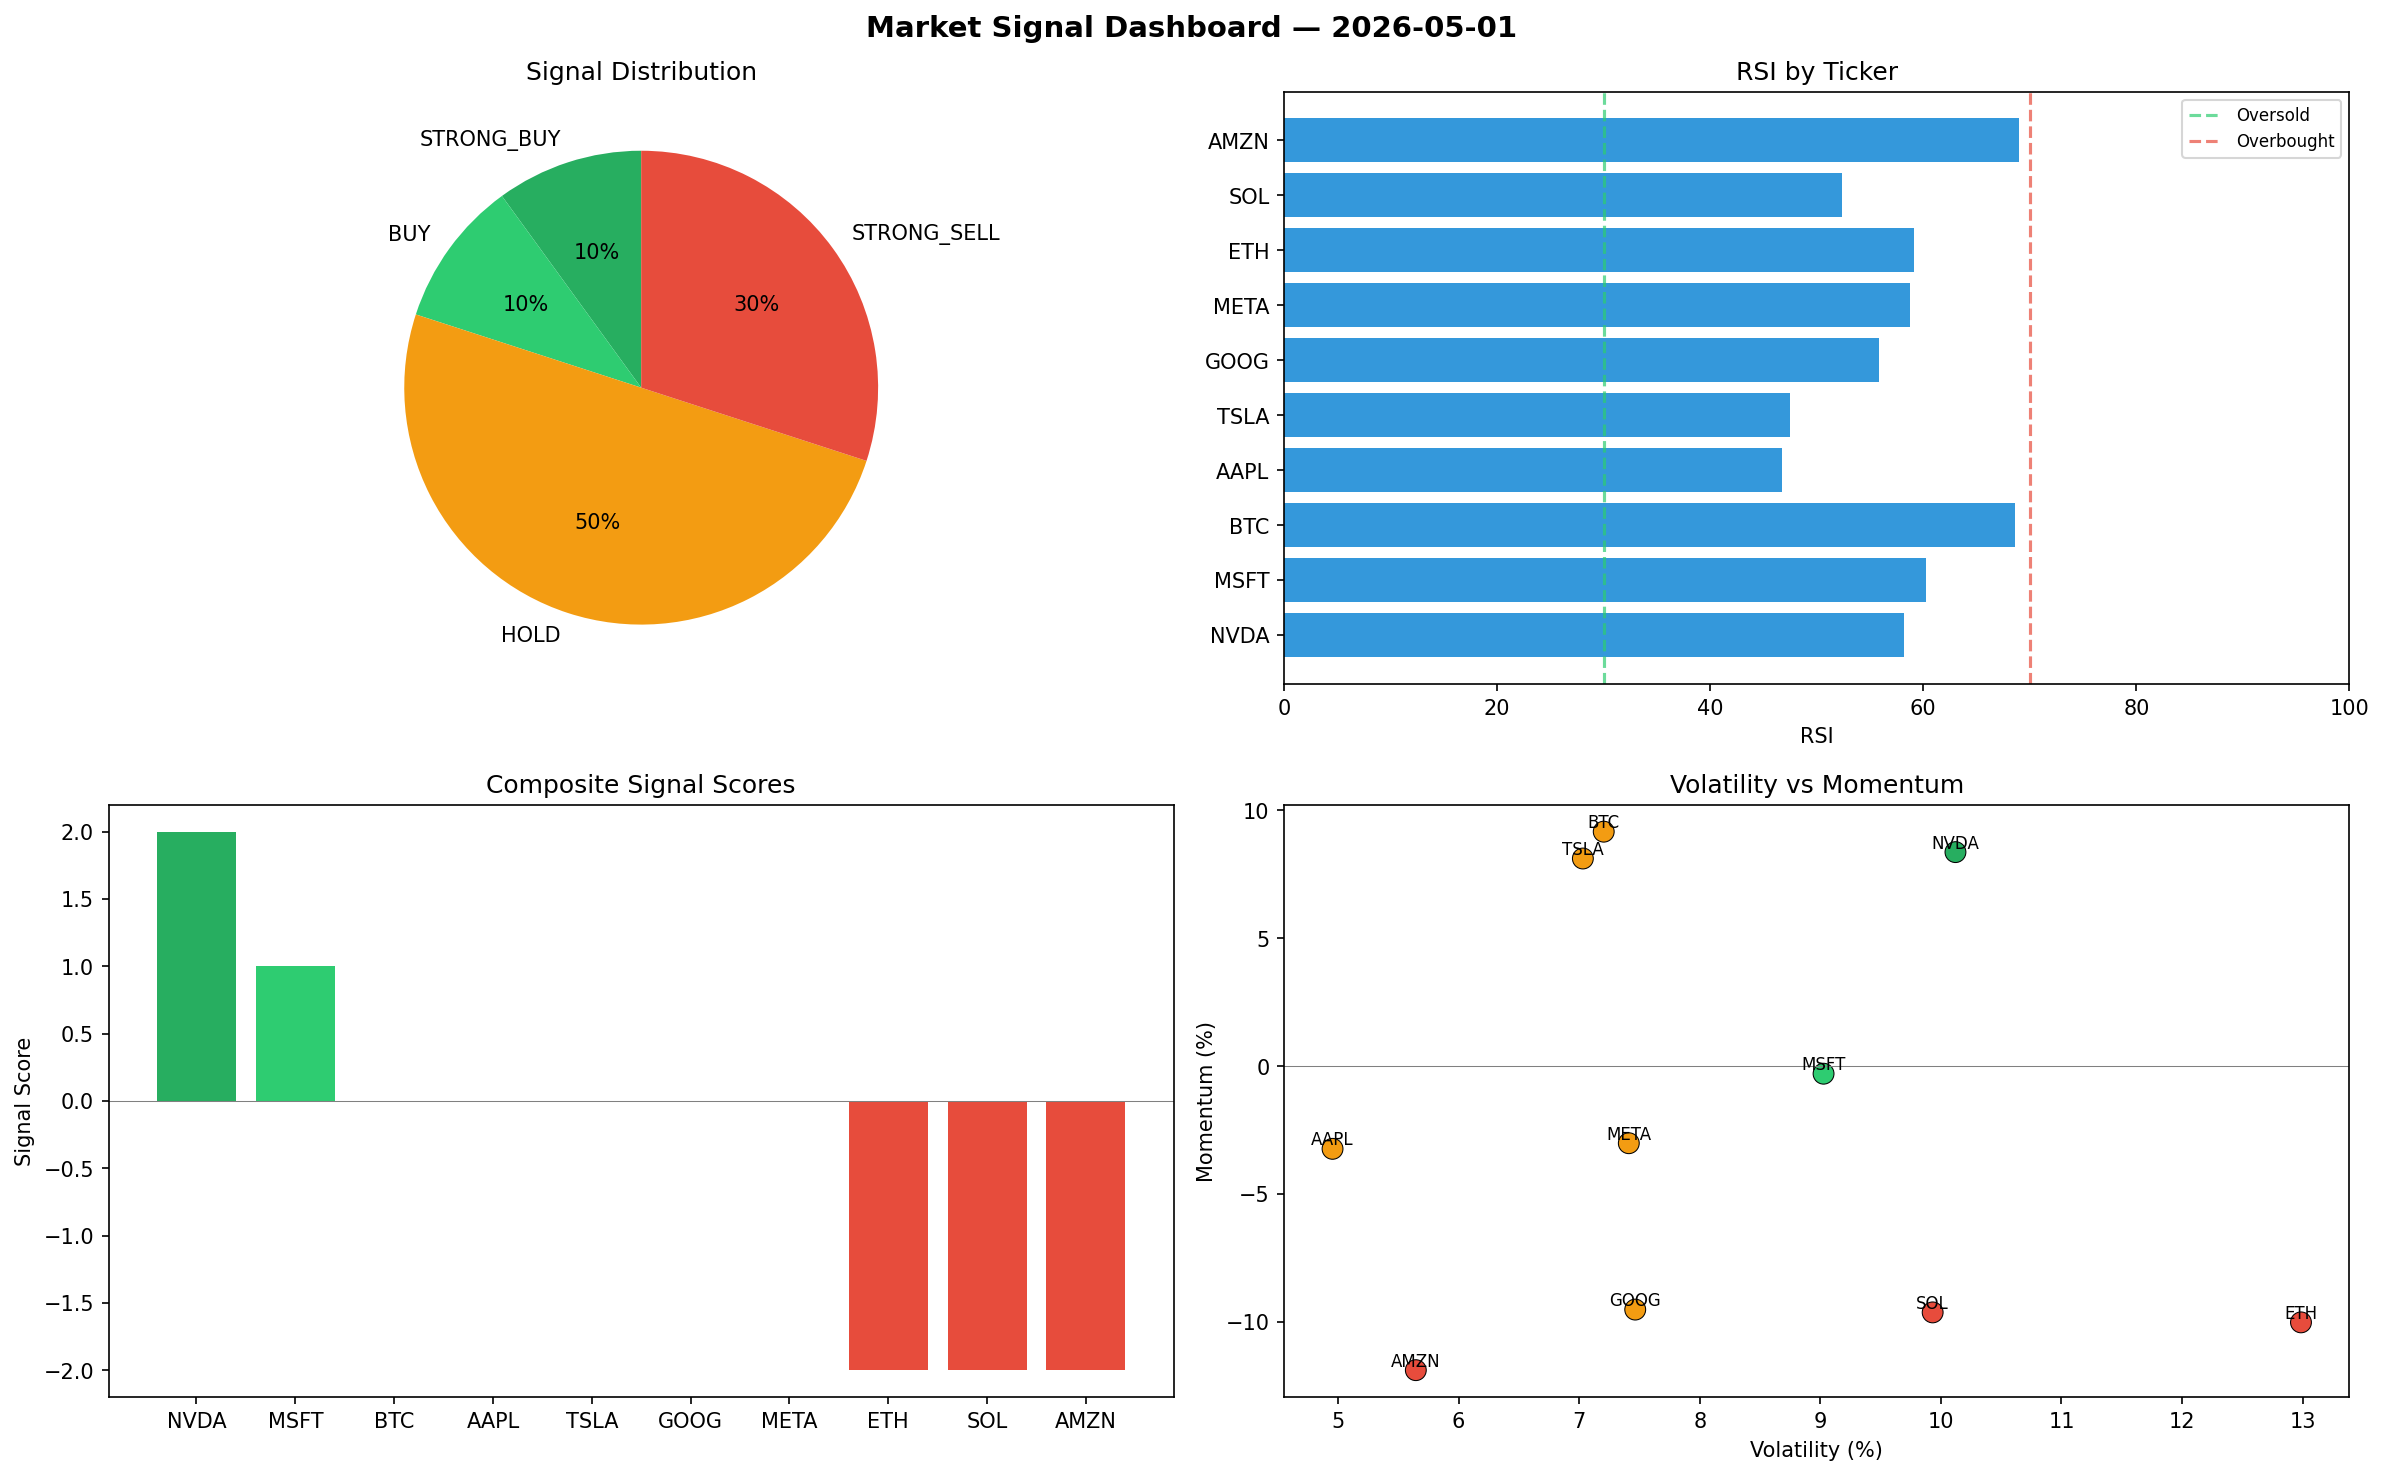
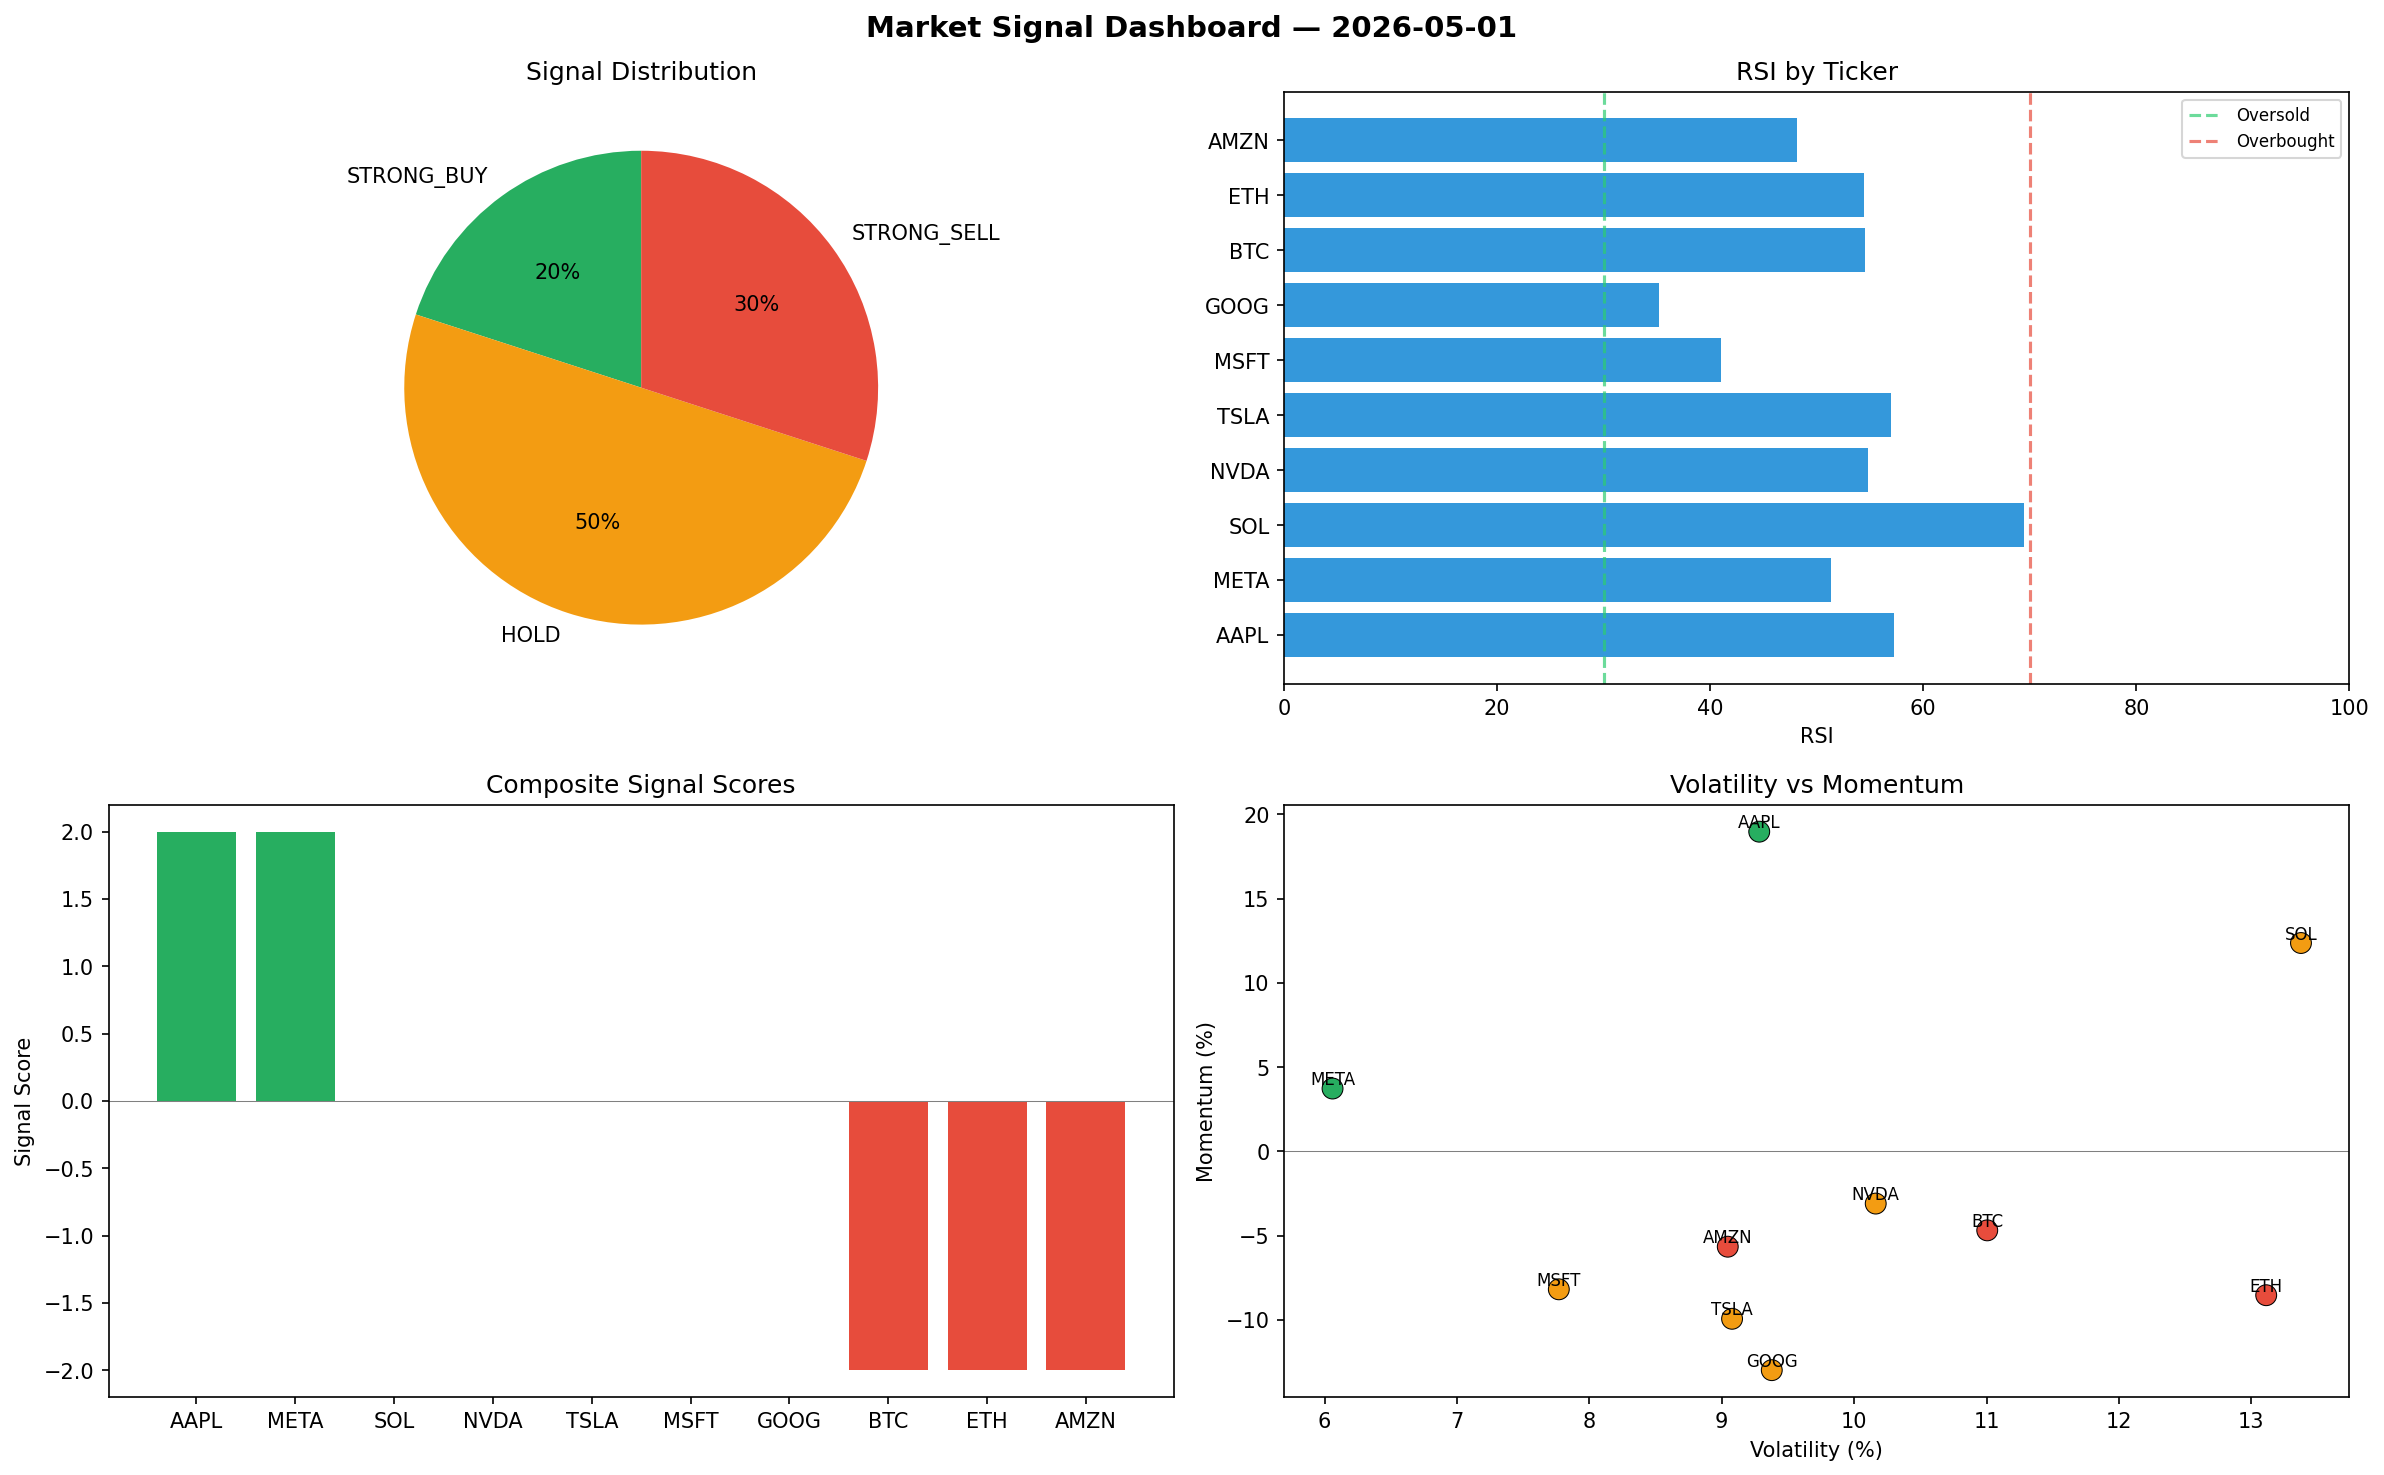
automated-bots: market signals 2026-05-01T15:32

diff --git a/logs/2026-05-01.md b/logs/2026-05-01.md
@@ -1,6 +1,6 @@
 # Market Signal Report — 2026-05-01
 
-**Run ID:** `e5f734a8c8` | **Buy:** 2 | **Sell:** 3 | **Hold:** 5
+**Run ID:** `c2ddea21b6` | **Buy:** 2 | **Sell:** 3 | **Hold:** 5
 
 ![Dashboard](2026-05-01_dashboard.png)
 
@@ -8,28 +8,28 @@
 
 | Ticker | Price | Signal | Score | RSI | Momentum | Confidence |
 |--------|-------|--------|-------|-----|----------|------------|
-| NVDA | $769.14 | **STRONG_BUY** | 2 | 58.2 | 0.0837 | 0.5 |
-| MSFT | $4026.58 | **BUY** | 1 | 60.25 | -0.003 | 0.25 |
-| BTC | $959.94 | **HOLD** | 0 | 68.57 | 0.0917 | 0.0 |
-| AAPL | $172.89 | **HOLD** | 0 | 46.72 | -0.0324 | 0.0 |
-| TSLA | $2311.17 | **HOLD** | 0 | 47.52 | 0.0812 | 0.0 |
-| GOOG | $1095.53 | **HOLD** | 0 | 55.81 | -0.0953 | 0.0 |
-| META | $1897.79 | **HOLD** | 0 | 58.74 | -0.0302 | 0.0 |
-| ETH | $1955.16 | **STRONG_SELL** | -2 | 59.14 | -0.1003 | 0.5 |
-| SOL | $206.34 | **STRONG_SELL** | -2 | 52.38 | -0.0964 | 0.5 |
-| AMZN | $2936.92 | **STRONG_SELL** | -2 | 68.97 | -0.119 | 0.5 |
+| AAPL | $4375.17 | **STRONG_BUY** | 2 | 57.27 | 0.1898 | 0.5 |
+| META | $3395.18 | **STRONG_BUY** | 2 | 51.3 | 0.0373 | 0.5 |
+| SOL | $2231.93 | **HOLD** | 0 | 69.5 | 0.1237 | 0.0 |
+| NVDA | $1256.03 | **HOLD** | 0 | 54.84 | -0.031 | 0.0 |
+| TSLA | $4226.42 | **HOLD** | 0 | 56.94 | -0.0994 | 0.0 |
+| MSFT | $3006.96 | **HOLD** | 0 | 41.03 | -0.0819 | 0.0 |
+| GOOG | $1878.74 | **HOLD** | 0 | 35.23 | -0.1299 | 0.0 |
+| BTC | $1778.81 | **STRONG_SELL** | -2 | 54.52 | -0.0469 | 0.5 |
+| ETH | $2681.45 | **STRONG_SELL** | -2 | 54.39 | -0.0854 | 0.5 |
+| AMZN | $510.17 | **STRONG_SELL** | -2 | 48.14 | -0.0566 | 0.5 |
 
 ## Delta vs Yesterday
 
 | Ticker | Today | Yesterday | Price Change | Signal Changed |
 |--------|-------|-----------|-------------|----------------|
-| NVDA | STRONG_BUY | SELL | 📉 -84.38% | ⚠ YES |
-| MSFT | BUY | BUY | 📉 -13.28% | — |
-| BTC | HOLD | HOLD | 📉 -71.59% | — |
-| AAPL | HOLD | STRONG_SELL | 📉 -87.12% | ⚠ YES |
-| TSLA | HOLD | STRONG_SELL | 📉 -32.18% | ⚠ YES |
-| GOOG | HOLD | SELL | 📉 -64.4% | ⚠ YES |
-| META | HOLD | STRONG_BUY | 📈 470.34% | ⚠ YES |
-| ETH | STRONG_SELL | STRONG_BUY | 📈 6.36% | ⚠ YES |
-| SOL | STRONG_SELL | HOLD | 📉 -86.36% | ⚠ YES |
-| AMZN | STRONG_SELL | STRONG_SELL | 📉 -11.73% | — |
+| AAPL | STRONG_BUY | STRONG_SELL | 📈 225.95% | ⚠ YES |
+| META | STRONG_BUY | STRONG_BUY | 📈 920.34% | — |
+| SOL | HOLD | HOLD | 📈 47.53% | — |
+| NVDA | HOLD | SELL | 📉 -74.5% | ⚠ YES |
+| TSLA | HOLD | STRONG_SELL | 📈 24.02% | ⚠ YES |
+| MSFT | HOLD | BUY | 📉 -35.24% | ⚠ YES |
+| GOOG | HOLD | SELL | 📉 -38.96% | ⚠ YES |
+| BTC | STRONG_SELL | HOLD | 📉 -47.35% | ⚠ YES |
+| ETH | STRONG_SELL | STRONG_BUY | 📈 45.88% | ⚠ YES |
+| AMZN | STRONG_SELL | STRONG_SELL | 📉 -84.67% | — |
